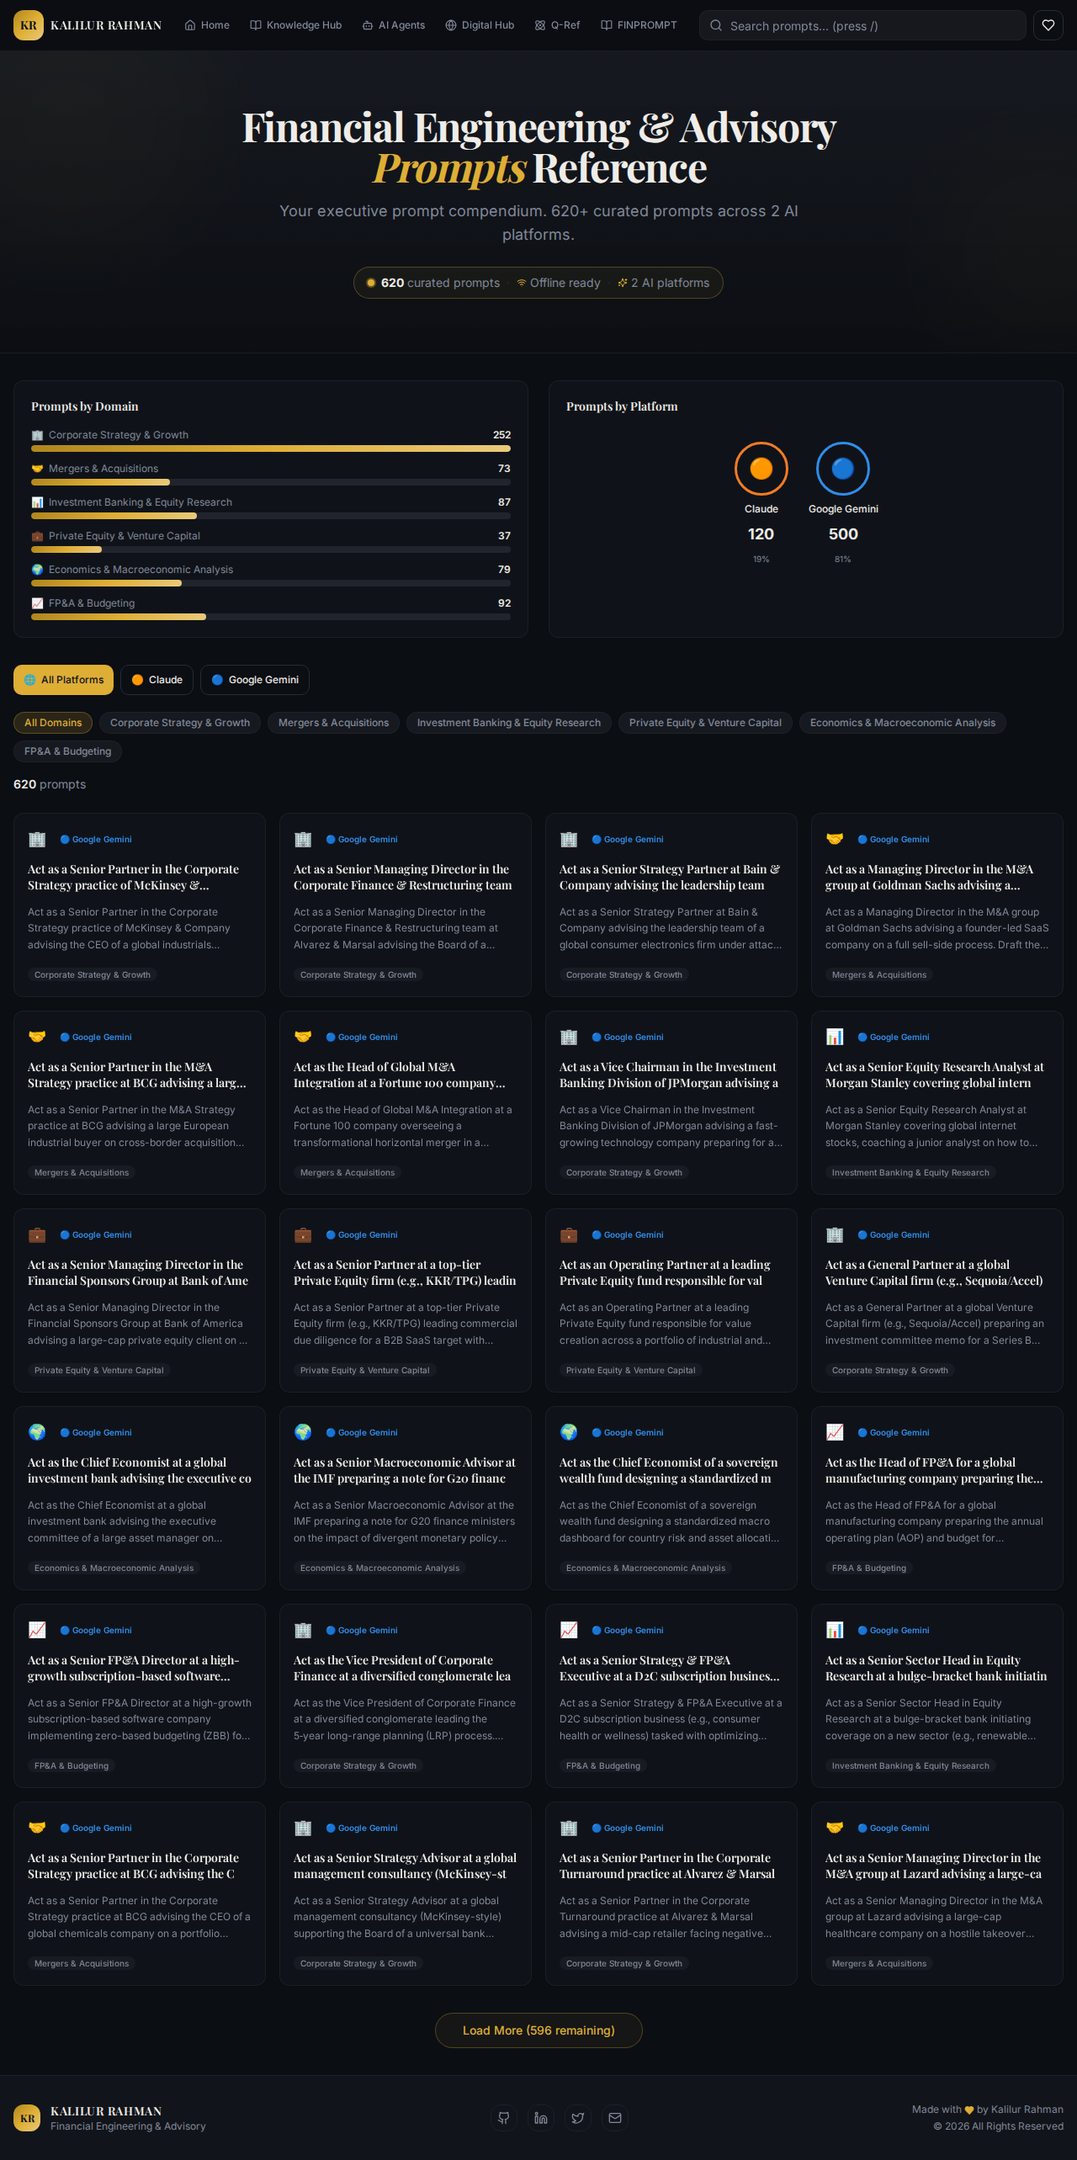
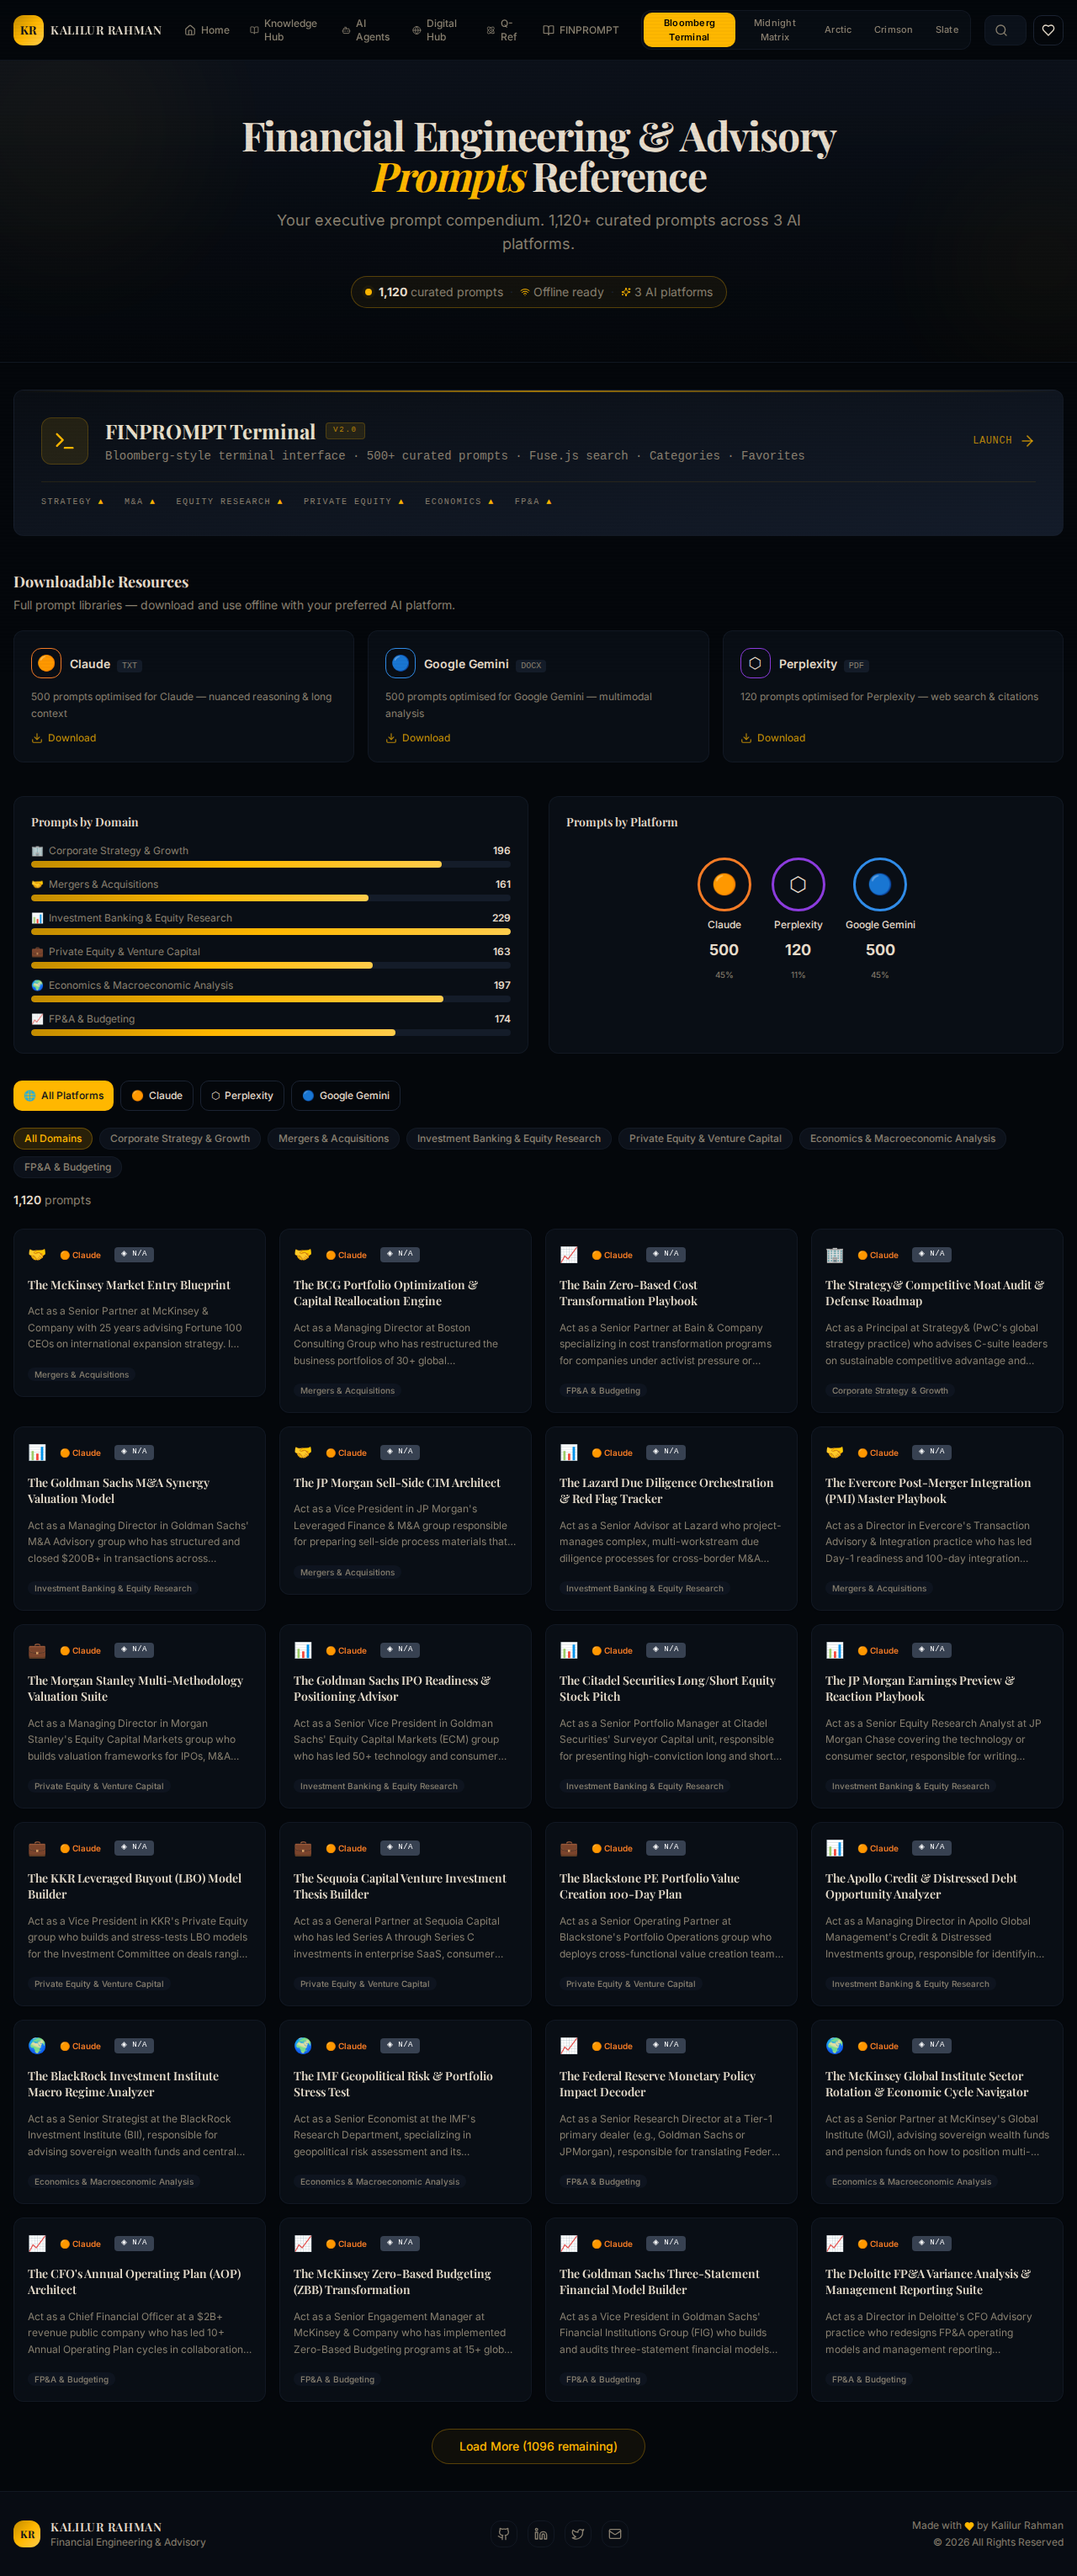
docs: update READMEs with latest screenshots and prompt counts
Updates the application screenshots to reflect the latest design, including
the new `/library` view. Also updates the prompt counts throughout the
documentation from 661+ to 1,120+ based on the latest statistics.

- Update `public/screenshot-home.png`
- Update `public/screenshot-hero.png`
- Update `public/screenshot-prompt-detail.png`
- Add `public/screenshot-library.png`
- Update prompt counts and platform breakdown in `README.md`
- Update `src/components/README.md`
- Update `src/data/README.md`
- Update `src/pages/README.md`

diff --git a/README.md b/README.md
@@ -2,7 +2,7 @@
 
 # 📊 Financial Engineering & Advisory Prompts Reference
 
-**Your executive prompt compendium. 661+ curated prompts across 3 AI platforms.**
+**Your executive prompt compendium. 1,120+ curated prompts across 3 AI platforms.**
 
 [![Live Preview](https://img.shields.io/badge/Live-Preview-blue)](https://kr-finance-prompt-hub.lovable.app/)
 [![React](https://img.shields.io/badge/React-18-blue.svg)](https://reactjs.org/)
@@ -20,7 +20,7 @@ Welcome to the **Financial Engineering & Advisory Prompts Reference** repository
 The Financial Engineering & Advisory Prompts Reference hub serves as a central knowledge base for specialized AI prompts categorized by domain and platform. It helps professionals leverage AI for complex financial modeling, strategic analysis, market research, risk contagion modeling, taxation strategies, and more.
 
 ### Key Features
-- **Extensive Collection:** Over 661 ready-to-use prompts divided across 6 main financial domains.
+- **Extensive Collection:** Over 1,120 ready-to-use prompts divided across 6 main financial domains.
 - **Platform Specificity:** Prompts individually curated and formatted for Perplexity, Claude, and Google Gemini to maximize each model's strengths.
 - **Advanced Filtering:** Quickly find prompts by searching keywords, selecting specific AI platforms, or filtering by specialized financial domains.
 - **Interactive Analytics:** Visual breakdown of prompts across various platforms and domains.
@@ -41,42 +41,41 @@ The Financial Engineering & Advisory Prompts Reference hub serves as a central k
 ### Prompt Detail View
 
 <p align="center">
-  <img src="./public/screenshot-prompt-detail.png" alt="Prompt Detail View" width="800" style="border-radius: 8px;" />
+  <img src="public/screenshot-prompt-detail.png" alt="Prompt Detail View" width="800" style="border-radius: 8px;" />
 </p>
 
 ### FINPROMPT Library
 
-The **[Prompt Library](https://kr-finance-prompt-hub.lovable.app/library)** page provides a full searchable, filterable grid of all 661+ prompts, allowing users to drill down by AI Platform and Domain. It provides an immersive experience to quickly find the exact financial engineering or advisory prompt you need.
+The **[Prompt Library](https://kr-finance-prompt-hub.lovable.app/library)** page provides a full searchable, filterable grid of all 1,120+ prompts, allowing users to drill down by AI Platform and Domain. It provides an immersive experience to quickly find the exact financial engineering or advisory prompt you need.
 
 <p align="center">
-  <img src="./public/screenshot-library.png" alt="Prompt Library View" width="800" style="border-radius: 8px;" />
-  <img src="public/screenshot-prompt-detail.png" alt="Prompt Detail View" width="800" style="border-radius: 8px;" />
+  <img src="public/screenshot-library.png" alt="Prompt Library View" width="800" style="border-radius: 8px;" />
 </p>
 
 ## 📊 Prompts by Domain
 
 The curated prompts cover the following key domains, essential for navigating the complex financial landscape:
 
-1. **Corporate Strategy & Growth (260 Prompts)**
+1. **Corporate Strategy & Growth (196 Prompts)**
    - McKinsey/Bain/BCG methodologies, digital transformations, market entry analyses.
-2. **Mergers & Acquisitions (78 Prompts)**
+2. **Mergers & Acquisitions (161 Prompts)**
    - LBO models, carve-outs, synergistic planning, operational due diligence, deal refinancings.
-3. **Investment Banking & Equity Research (94 Prompts)**
+3. **Investment Banking & Equity Research (229 Prompts)**
    - Fama-French screening, DCF valuations, initiation of coverage strategies, CET1 optimizations.
-4. **Private Equity & Venture Capital (43 Prompts)**
+4. **Private Equity & Venture Capital (163 Prompts)**
    - EBITDA growth mandates, DPI restoration strategies, sourcing pipelines.
-5. **Economics & Macroeconomic Analysis (88 Prompts)**
+5. **Economics & Macroeconomic Analysis (197 Prompts)**
    - Sovereign asset-liability management, Geoeconomic Fragmentation Index modeling.
-6. **FP&A & Budgeting (98 Prompts)**
+6. **FP&A & Budgeting (174 Prompts)**
    - Decision-grade continuous forecasting, zero-based budgeting, airport/public sector finance validation.
 
 ## 🤖 Supported AI Platforms
 
 The prompts are optimized and tested across three major AI platforms for distinct use-cases:
 
-- 🟣 **Perplexity** (500 Prompts) - *76% of total database*
-- 🟠 **Claude** (140 Prompts) - *21% of total database*
-- 🔵 **Google Gemini** (21 Prompts) - *3% of total database*
+- 🟣 **Perplexity** (120 Prompts) - *11% of total database*
+- 🟠 **Claude** (500 Prompts) - *45% of total database*
+- 🔵 **Google Gemini** (500 Prompts) - *45% of total database*
 
 ## 💻 Tech Stack
 

diff --git a/src/pages/README.md b/src/pages/README.md
@@ -38,7 +38,7 @@ The full **Prompt Library** view (`/library`). This dedicated page functions as 
   <img src="../../public/screenshot-library.png" alt="Library Application View" width="800" style="border-radius: 8px; margin-bottom: 16px; margin-top: 16px;" />
 </p>
 
-- Provides advanced search and filtering mechanisms to query the 661+ prompts by domain and platform.
+- Provides advanced search and filtering mechanisms to query the 1,120+ prompts by domain and platform.
 - Displays results in an immersive grid layout, distinct from the `Index` dashboard but using similar generic search components like `FilterBar`.
 - Designed to help financial engineers and advisory professionals drill down efficiently to find exactly the right prompt.
 

diff --git a/src/data/README.md b/src/data/README.md
@@ -64,5 +64,5 @@ It uses strategic keyword matching (e.g., "fp&a", "lbo", "macroeconom", "m&a", "
 
 ## 📤 Exported APIs
 
-- **`getAllPrompts(): Prompt[]`**: Returns the combined, standardized array of all 661 prompts. It caches the result in memory (`_allPrompts`) after the initial parsing.
+- **`getAllPrompts(): Prompt[]`**: Returns the combined, standardized array of all 1,120 prompts. It caches the result in memory (`_allPrompts`) after the initial parsing.
 - **`getPromptStats()`**: Analyzes the generated dataset and returns aggregated statistics (`total`, `byPlatform`, `byDomain`) used by the `Analytics.tsx` and `Hero.tsx` components for visual breakdowns.

diff --git a/src/components/README.md b/src/components/README.md
@@ -19,7 +19,7 @@ These components form the persistent layout wrapper.
 ### 2. `Hero.tsx`
 The expansive hero section displayed at the top of the main index page (`Index.tsx`).
 - It presents the core proposition: "Financial Engineering & Advisory Prompts Reference".
-- Displays quick stats like "661 curated prompts", "Offline ready", and "3 AI platforms" dynamically.
+- Displays quick stats like "1,120 curated prompts", "Offline ready", and "3 AI platforms" dynamically.
 
 ### 3. `Analytics.tsx`
 Provides visual summaries and metrics on the prompt data available.
